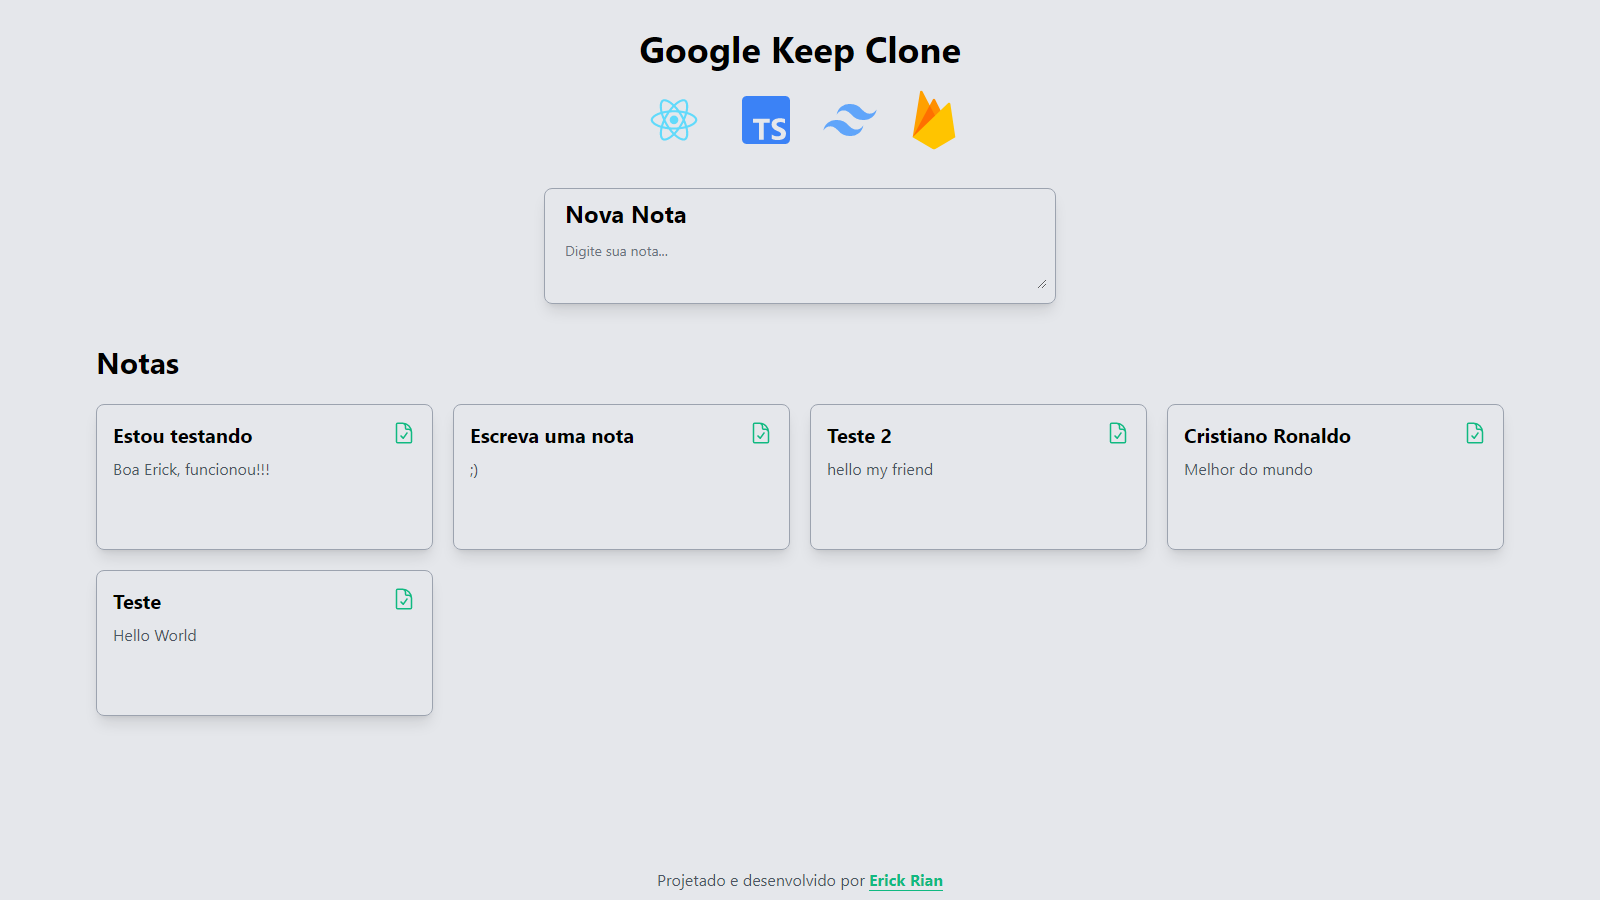
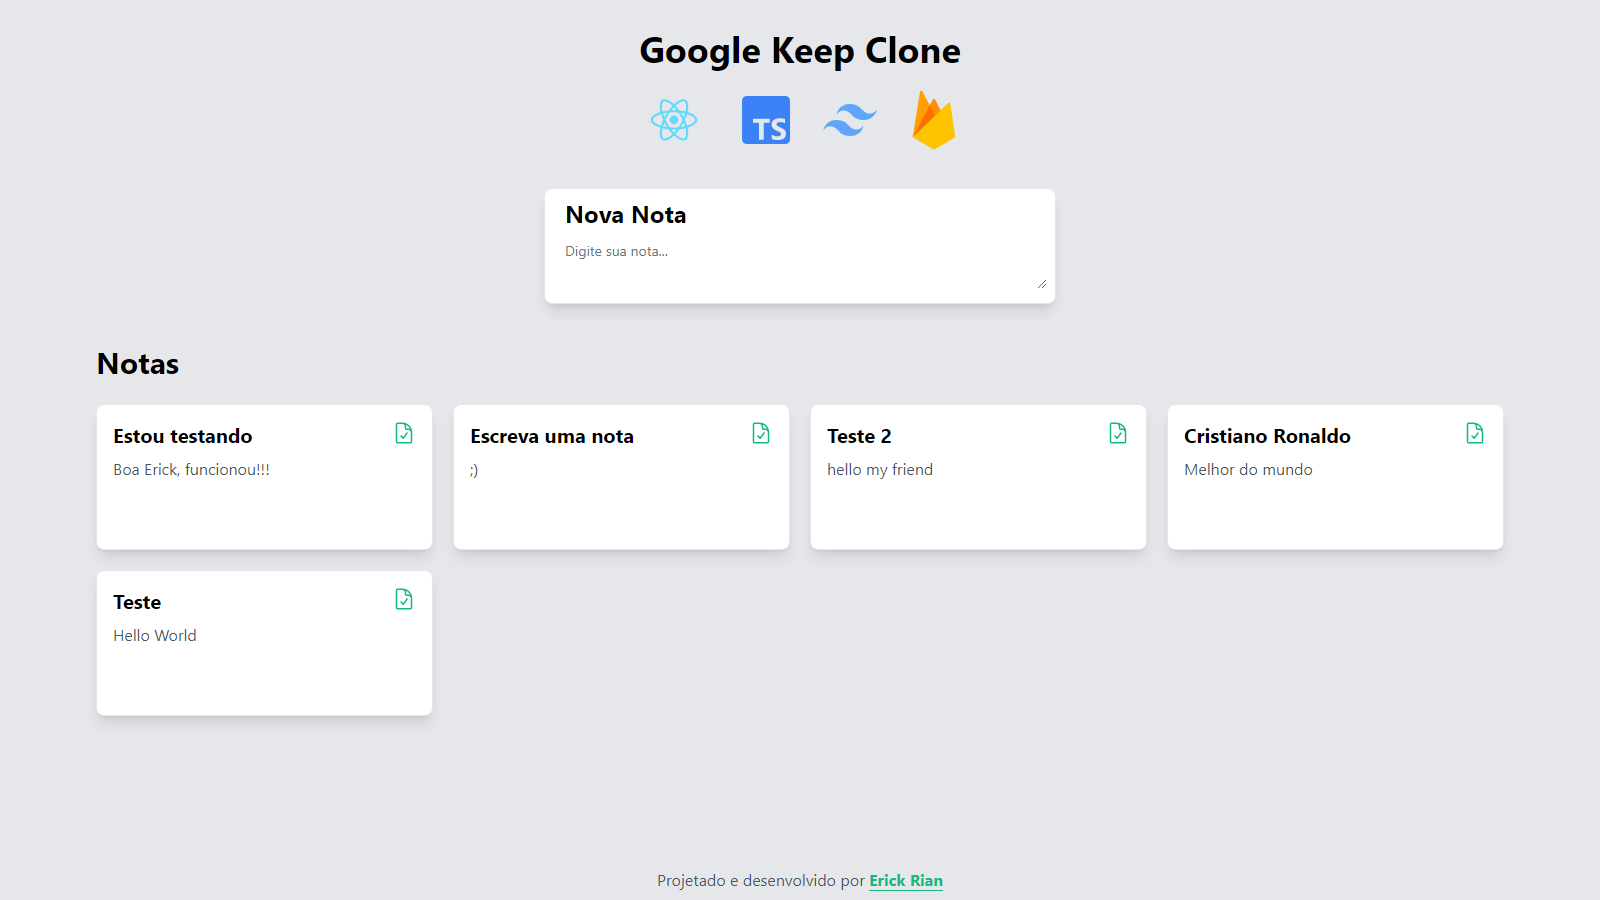
update README.md and Styles

Changed region(s): [[0.0625, 0.4356, 0.9375, 0.8089], [0.3125, 0.1867, 0.6875, 0.3422]]

diff --git a/src/components/Form.tsx b/src/components/Form.tsx
@@ -39,17 +39,11 @@ export default function Form({ addNote, note }: FormProps): JSX.Element {
 
   return (
     <form
-      className="flex flex-col mx-auto w-full max-w-lg gap-2 border border-gray-400 p-2 rounded-lg shadow-lg"
+      className="flex flex-col mx-auto bg-white w-full max-w-lg gap-2 border border-gray-00 p-2 rounded-lg shadow-lg"
       onSubmit={handleSubmit}
     >
       <div className="w-full" onClick={() => setClick(true)}>
-        {id ? (
-          <h1 className="text-2xl px-3 mb-1 font-bold text-black">
-            Editar Nota
-          </h1>
-        ) : (
-          <h1 className="text-2xl px-3 mb-1 font-bold text-black">Nova Nota</h1>
-        )}
+        <h1 className="text-2xl px-3 mb-1 font-bold text-black">Nova Nota</h1>
         <label className={`${click ? "block" : "hidden"}`} htmlFor="title">
           <input
             className="py-2 px-3 w-full text-base font-bold text-black  bg-transparent placeholder-gray-500 placeholder:font-bold focus:outline-none"

diff --git a/src/components/NoteCard.tsx b/src/components/NoteCard.tsx
@@ -174,7 +174,7 @@ export default function NoteCard({
             <ul className="grid grid-cols-1 gap-3 sm:grid-cols-2 lg:grid-cols-3 lg:gap-5 xl:grid-cols-4">
               {notes.map((note) => (
                 <li key={note.Id} className="flex-1">
-                  <div className="group rounded-lg border border-gray-400 shadow-lg px-4 pt-4 pb-2 hover:border-gray-500 duration-300">
+                  <div className="group rounded-lg bg-white border shadow-lg px-4 pt-4 pb-2 lg:hover:border-gray-400 duration-300">
                     <div className="flex justify-between gap-5">
                       <h2 className="text-lg font-bold text-black mb-2 lg:text-xl">
                         {note.Title}
